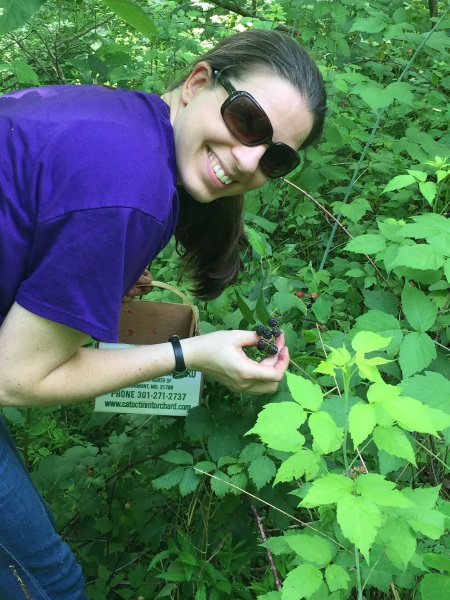
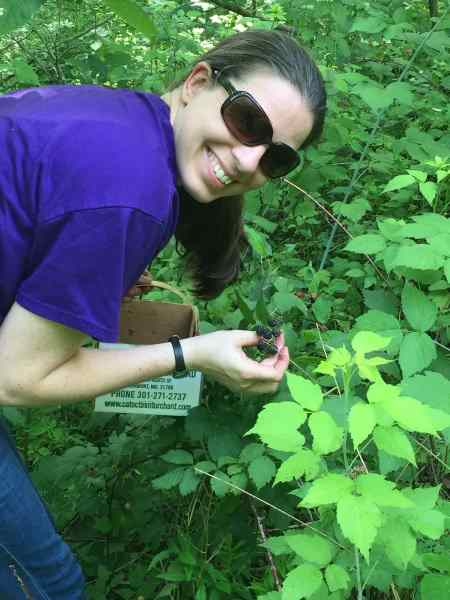
optimizing images

diff --git a/index.html b/index.html
@@ -439,7 +439,7 @@
 						<div class="colright">
 							<div class="inner-infostrip">Details</div>
 							<p><a href="http://www.marriott.com/meeting-event-hotels/group-corporate-travel/groupCorp.mi?resLinkData=Li-DuBose%20Wedding%5Ewassv%60LDWLDWA%60109.00%60USD%60false%602%607/8/16%607/11/16%606/8/16&app=resvlink&stop_mobi=yes">Courtyard by Marriott<br/>8506 Fenton St<br/>Silver Spring, MD 20910</a></p>
-							<img src="./images/hotel-map.png"/>
+							<img src="./images/hotel-map.jpg"/>
 						</div>
 					</div>							
 					<div class="slick-slide">

diff --git a/style.css b/style.css
@@ -490,7 +490,7 @@ h2.ss-subtitle:after{
 	}
 }
 .ss-circle-1{
-    background-image:url(./images/coffeemeetsbagel.png);
+    background-image:url(./images/coffeemeetsbagel.jpg);
 }
 .ss-circle-2{
     background-image: url(./images/chefgeoffs.png);
